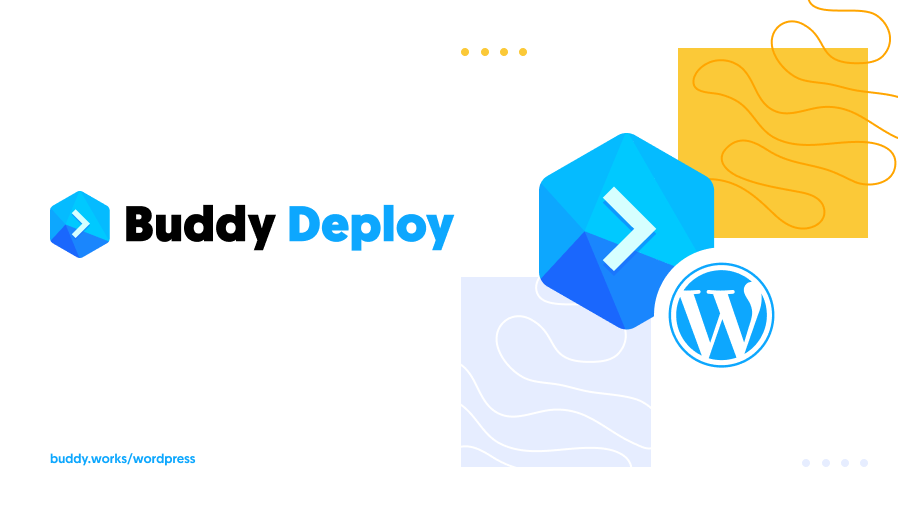
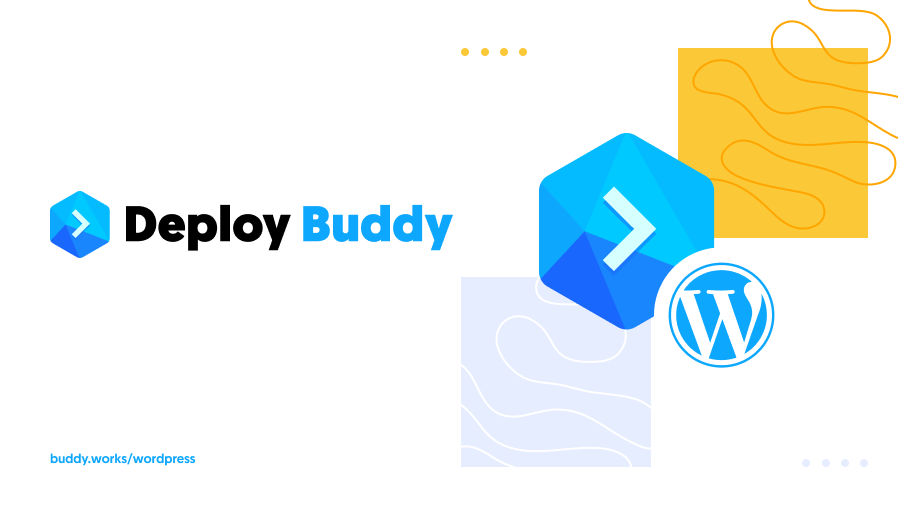
Name change

Changed region(s): [[0.1559, 0.3721, 0.4989, 0.4961]]

diff --git a/buddy-deploy.php b/buddy-deploy.php
@@ -1,6 +1,6 @@
 <?php
 /**
- * Plugin Name: Buddy Deploy
+ * Plugin Name: Deploy Buddy
  * Description: Seamlessly trigger Buddy.works deploys from WordPress
  * Author: Maciek Palmowski
  * Version: 0.1.1
@@ -23,10 +23,10 @@ Config::init(
 		'dir'           => __DIR__,
 		'base_name'     => plugin_basename( __FILE__ ),
 		'plugin_url'    => plugin_dir_url( __FILE__ ),
-		'slug'          => 'buddy-deploy',
-		'language_slug' => 'buddy_deploy',
-		'name'          => 'Buddy Deploy',
-		'shortname'     => 'Buddy Deploy',
+		'slug'          => 'deploy-buddy',
+		'language_slug' => 'deploy-buddy',
+		'name'          => 'Deploy Buddy',
+		'shortname'     => 'Deploy Buddy',
 		'webhook'       => defined( 'buddy_webhook' ) ? buddy_webhook : false,
 		'add_to_topbar' => defined( 'buddy_topbar' ) ? buddy_topbar : true,
 		'capabilities'  => defined( 'buddy_capabilities' ) ? buddy_capabilities : 'manage_options',

diff --git a/src/ManualDeploy.php b/src/ManualDeploy.php
@@ -11,7 +11,7 @@ class ManualDeploy {
 		if ( capabilities_helper( 'top_bar' ) ) {
 			$args = array(
 				'id'    => 'buddy_manual_deploy_button',
-				'title' => '<span class="ab-icon"></span>' . __( 'Buddy Deploy', Config::get( 'language_slug' ) ),
+				'title' => '<span class="ab-icon"></span>' . __( 'Deploy Buddy', Config::get( 'language_slug' ) ),
 				'href'  => '#',
 				'meta'  => array( 'class' => 'buddy_manual_deploy_button' ),
 			);

diff --git a/src/functions.php b/src/functions.php
@@ -30,7 +30,7 @@ function uninstall() {
  * @return void
  */
 function print_requirements_notice() {     // phpcs:ignore Squiz.PHP.DiscouragedFunctions.Discouraged
-	error_log( 'Buddy Deploy requirements are not met. Please read the Installation instructions.' );
+	error_log( 'Deploy Buddy requirements are not met. Please read the Installation instructions.' );
 
 	if ( ! current_user_can( 'activate_plugins' ) ) {
 		return;

diff --git a/readme.md b/readme.md
@@ -1,6 +1,6 @@
 ![](assets/images/cover.png)
 
-# Buddy Deploy
+# Deploy Buddy
 Seamlessly trigger Buddy.works deploys from WordPress.
 
 ## Plugin Installation
